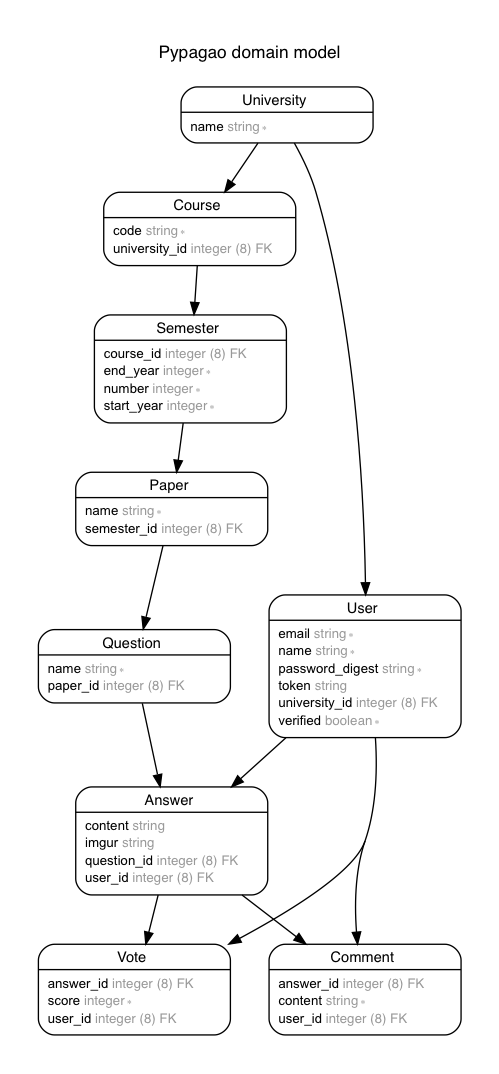
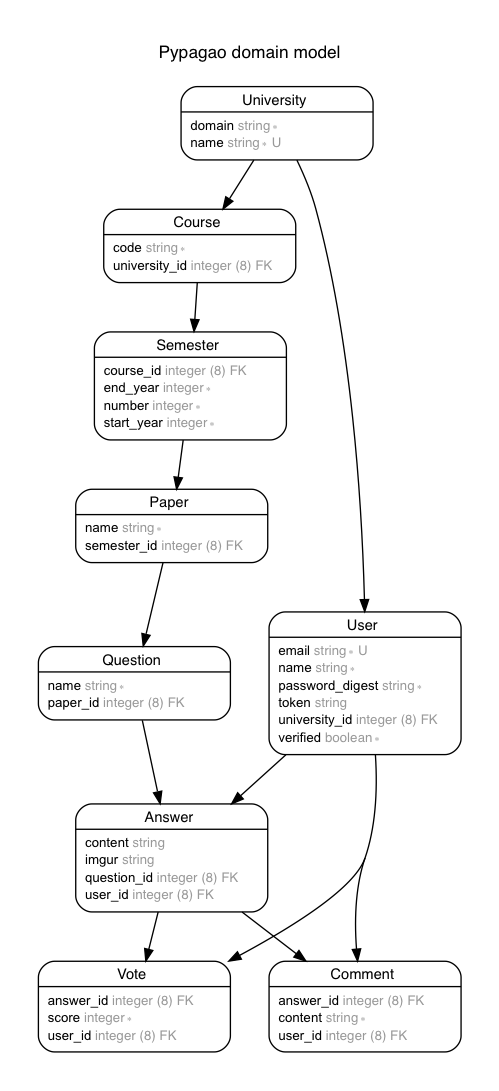
Add domain to university and implement university controller (#15)
* Add domain to university and university controller

* Change default port to 3001

* Update Gemfile.lock

diff --git a/spec/controllers/universities_controller_spec.rb b/spec/controllers/universities_controller_spec.rb
@@ -1,0 +1,39 @@
+# frozen_string_literal: true
+
+require 'rails_helper'
+
+RSpec.describe UniversitiesController, type: :controller do
+  before do
+    @request.env['HTTP_ACCEPT'] = 'application/json'
+    @request.env['CONTENT_TYPE'] = 'application/json'
+  end
+
+  describe 'GET #index' do
+    it 'should return all universities' do
+      universities = create_list(:university, 3)
+      expected = universities.map do |u|
+        { 'id' => u.id, 'name' => u.name, 'domain' => u.domain }
+      end
+      get :index
+      should respond_with :ok
+      expect(JSON.parse(response.body)).to eql(expected)
+    end
+  end
+
+  describe 'POST #create' do
+    it 'should save given valid information' do
+      university = build(:university)
+      post :create, params: { name: university.name, domain: university.domain }
+      should respond_with :ok
+      expect(response.body).to eq('')
+    end
+
+    it 'sends 500 when error saving' do
+      university = build(:university)
+      allow(University).to receive(:create).and_return(false)
+      post :create, params: { name: university.name, domain: university.domain }
+      should respond_with :internal_server_error
+      expect(response.body).to eq({ error: 'Error saving' }.to_json)
+    end
+  end
+end

diff --git a/spec/models/university_spec.rb b/spec/models/university_spec.rb
@@ -5,17 +5,27 @@
 # Table name: universities
 #
 #  id         :bigint(8)        not null, primary key
+#  domain     :string           not null
 #  name       :string           not null
 #  created_at :datetime         not null
 #  updated_at :datetime         not null
+#
+# Indexes
+#
+#  index_universities_on_domain  (domain) UNIQUE
+#  index_universities_on_name    (name) UNIQUE
 #
 
 require 'rails_helper'
 
 RSpec.describe University, type: :model do
+  let!(:university) { create(:university) }
   it { should have_many(:courses).dependent(:destroy) }
   it { should have_many(:users).dependent(:destroy) }
   it { should validate_presence_of(:name) }
+  it { should validate_uniqueness_of(:name).ignoring_case_sensitivity }
+  it { should validate_presence_of(:domain) }
+  it { should validate_uniqueness_of(:domain).ignoring_case_sensitivity }
 
   it 'has a valid factory' do
     expect(build(:university)).to be_valid

diff --git a/app/models/university.rb b/app/models/university.rb
@@ -5,14 +5,27 @@
 # Table name: universities
 #
 #  id         :bigint(8)        not null, primary key
+#  domain     :string           not null
 #  name       :string           not null
 #  created_at :datetime         not null
 #  updated_at :datetime         not null
+#
+# Indexes
+#
+#  index_universities_on_domain  (domain) UNIQUE
+#  index_universities_on_name    (name) UNIQUE
 #
 
 class University < ApplicationRecord
   has_many :courses, dependent: :destroy
   has_many :users, dependent: :destroy
 
-  validates :name, presence: true
+  validates :name, presence: true, uniqueness: { case_sensitive: false }
+  validates :domain, presence: true, uniqueness: { case_sensitive: false }
+
+  before_save :downcase_domain
+
+  def downcase_domain
+    self.domain = domain&.downcase
+  end
 end

diff --git a/db/schema.rb b/db/schema.rb
@@ -10,7 +10,7 @@
 #
 # It's strongly recommended that you check this file into your version control system.
 
-ActiveRecord::Schema.define(version: 2018_06_25_143037) do
+ActiveRecord::Schema.define(version: 2018_06_26_141959) do
 
   # These are extensions that must be enabled in order to support this database
   enable_extension "plpgsql"
@@ -74,6 +74,9 @@ ActiveRecord::Schema.define(version: 2018_06_25_143037) do
     t.string "name", null: false
     t.datetime "created_at", null: false
     t.datetime "updated_at", null: false
+    t.string "domain", null: false
+    t.index ["domain"], name: "index_universities_on_domain", unique: true
+    t.index ["name"], name: "index_universities_on_name", unique: true
   end
 
   create_table "users", force: :cascade do |t|

diff --git a/app/controllers/universities_controller.rb b/app/controllers/universities_controller.rb
@@ -1,0 +1,24 @@
+# frozen_string_literal: true
+
+class UniversitiesController < ApplicationController
+  skip_before_action :authenticate
+
+  def index
+    render_json(University.select(:id, :name, :domain), :ok)
+  end
+
+  def create
+    return unless ensure_params_fields(%i[name domain])
+    if University.create(university_params)
+      render_json('', :ok)
+    else
+      render_error('Error saving', :internal_server_error)
+    end
+  end
+
+  private
+
+  def university_params
+    params.require(:university).permit(:name, :domain)
+  end
+end

diff --git a/spec/factories/universities.rb b/spec/factories/universities.rb
@@ -5,13 +5,20 @@
 # Table name: universities
 #
 #  id         :bigint(8)        not null, primary key
+#  domain     :string           not null
 #  name       :string           not null
 #  created_at :datetime         not null
 #  updated_at :datetime         not null
 #
+# Indexes
+#
+#  index_universities_on_domain  (domain) UNIQUE
+#  index_universities_on_name    (name) UNIQUE
+#
 
 FactoryBot.define do
   factory :university do
-    name 'MyString'
+    sequence(:name) { |n| "university#{n}" }
+    sequence(:domain) { |n| "u#{n}.edu" }
   end
 end

diff --git a/config/routes.rb b/config/routes.rb
@@ -10,4 +10,6 @@ Rails.application.routes.draw do
   post '/authentication/register', to: 'authentication#register'
   get '/authentication/verify', to: 'authentication#verify'
   get '/authentication/check', to: 'authentication#check'
+
+  resources :universities, except: %i[update destroy]
 end

diff --git a/config/puma.rb b/config/puma.rb
@@ -12,7 +12,7 @@ threads threads_count, threads_count
 # Specifies the `port` that Puma will listen on to receive requests; default is
 # 3000.
 #
-port        ENV.fetch('PORT') { 3000 }
+port        ENV.fetch('PORT') { 3001 }
 
 # Specifies the `environment` that Puma will run in.
 #

diff --git a/db/migrate/20180626141959_add_domain_to_university.rb b/db/migrate/20180626141959_add_domain_to_university.rb
@@ -1,0 +1,8 @@
+class AddDomainToUniversity < ActiveRecord::Migration[5.2]
+  def change
+    add_column :universities, :domain, :string, null: false
+
+    add_index :universities, :domain, unique: true
+    add_index :universities, :name, unique: true
+  end
+end
